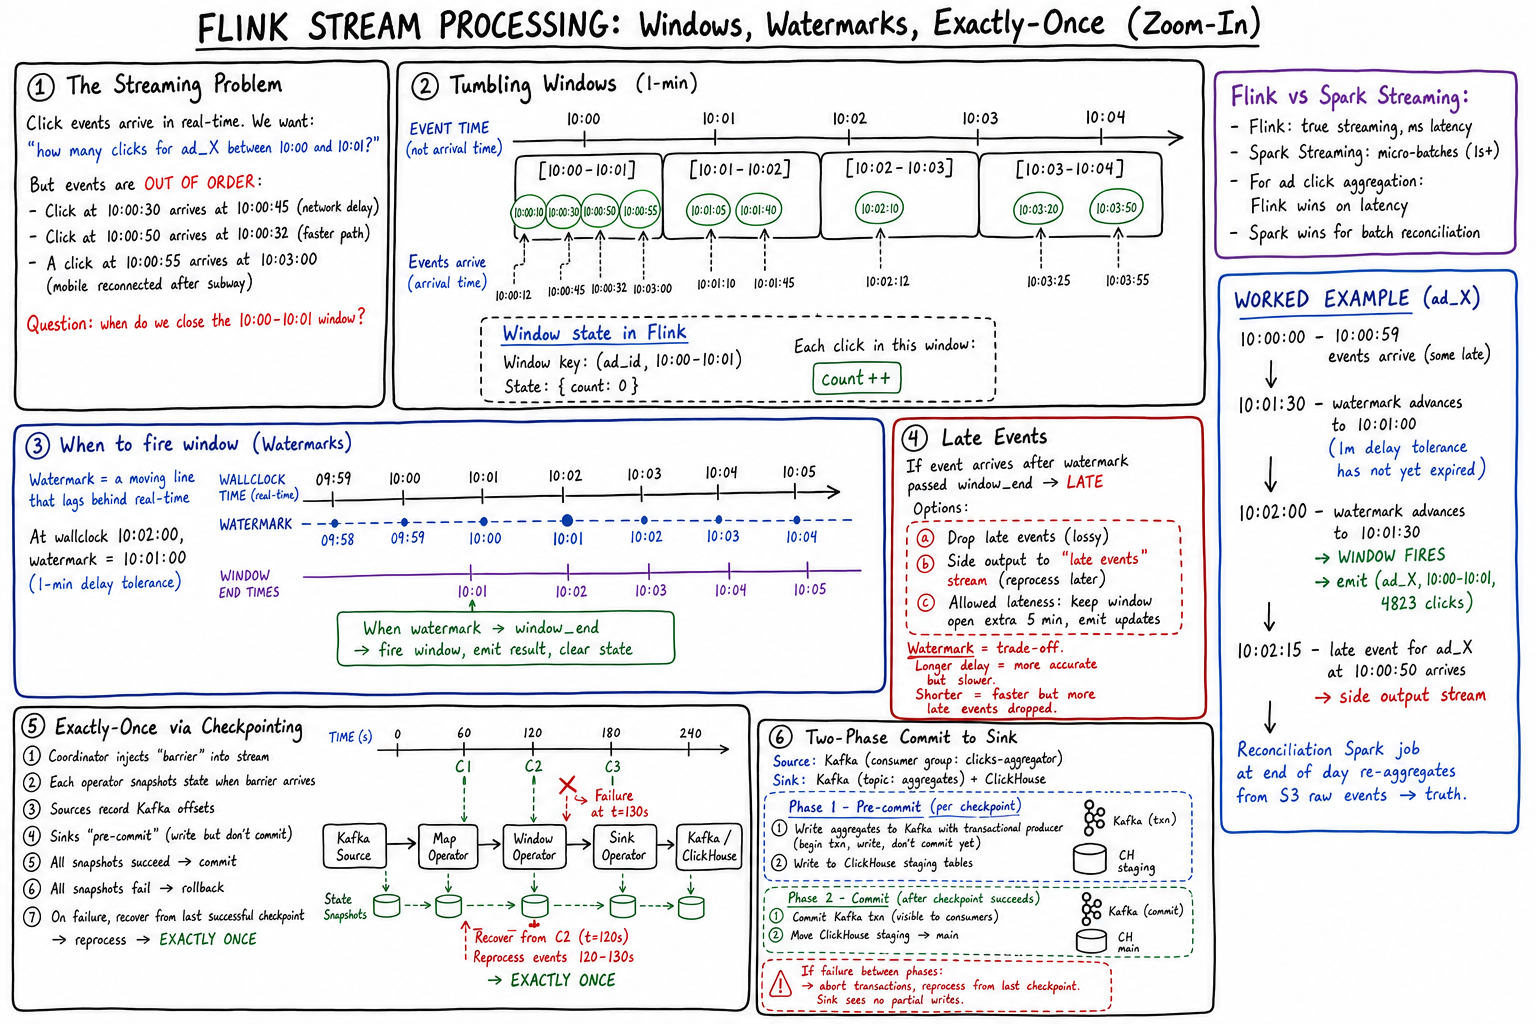
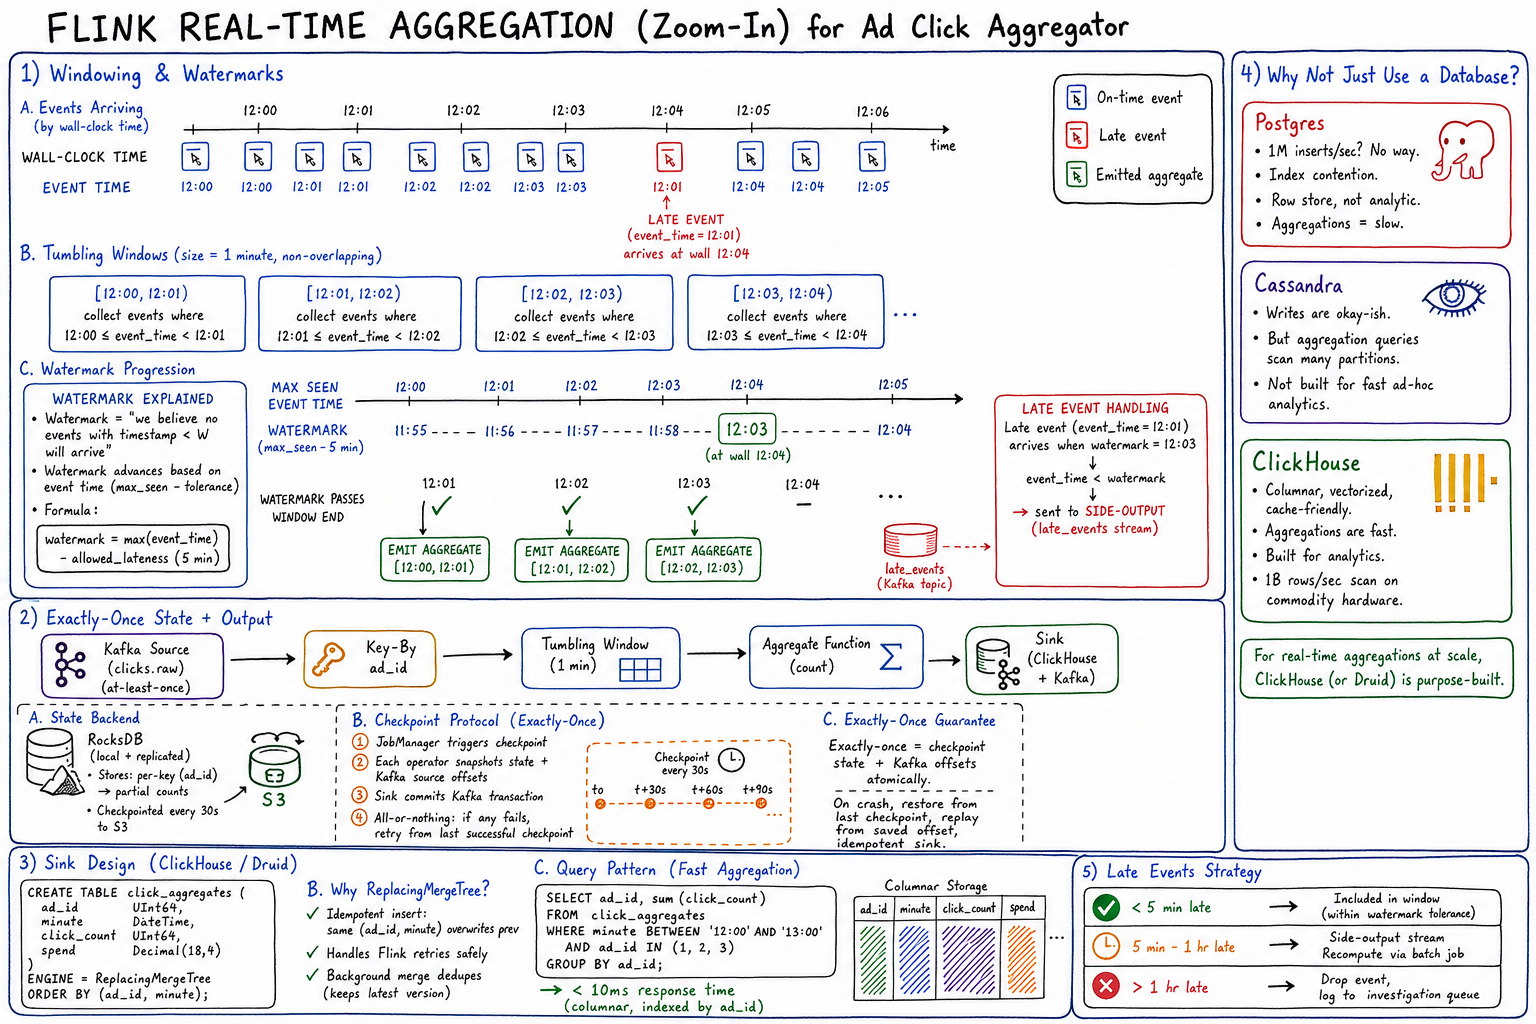
Add detailed whiteboard diagrams to Ad Click Aggregator HLD

Changed region(s): [[0.0, 0.0, 1.0, 1.0]]

diff --git a/docs/cheatsheets/hld/ad-click-aggregator.html b/docs/cheatsheets/hld/ad-click-aggregator.html
@@ -192,6 +192,11 @@ Why partition by ad_id?
 </section>
 
 <!-- 06 -->
+<div class="diagram">
+  <img src="img/ad-click-flink-zoom.png" alt="Flink real-time aggregation zoom-in">
+</div>
+<p class="diagram-caption">Zoom-in: Flink streaming internals &mdash; tumbling windows, watermark progression (event-time semantics, late events going to side-output), exactly-once via Kafka transactions + RocksDB state + checkpoints, and ClickHouse ReplacingMergeTree for idempotent sinks.</p>
+
 <section id="aggregation">
   <h2>06 &mdash; Flink Real-Time Aggregation</h2>
 
@@ -384,6 +389,11 @@ Response:
 </section>
 
 <!-- 10 -->
+<div class="diagram">
+  <img src="img/ad-click-lambda-zoom.png" alt="Lambda architecture and reconciliation zoom-in">
+</div>
+<p class="diagram-caption">Zoom-in: Lambda architecture &mdash; Speed Layer (Flink, ~99% accurate, &lt;1min) + Batch Layer (Spark nightly, 100% accurate, source of truth for billing). Reconciliation job detects drift; Kappa alternative compared.</p>
+
 <section id="reconciliation">
   <h2>10 &mdash; Batch Reconciliation (Billing Accuracy)</h2>
   <div class="card highlight">